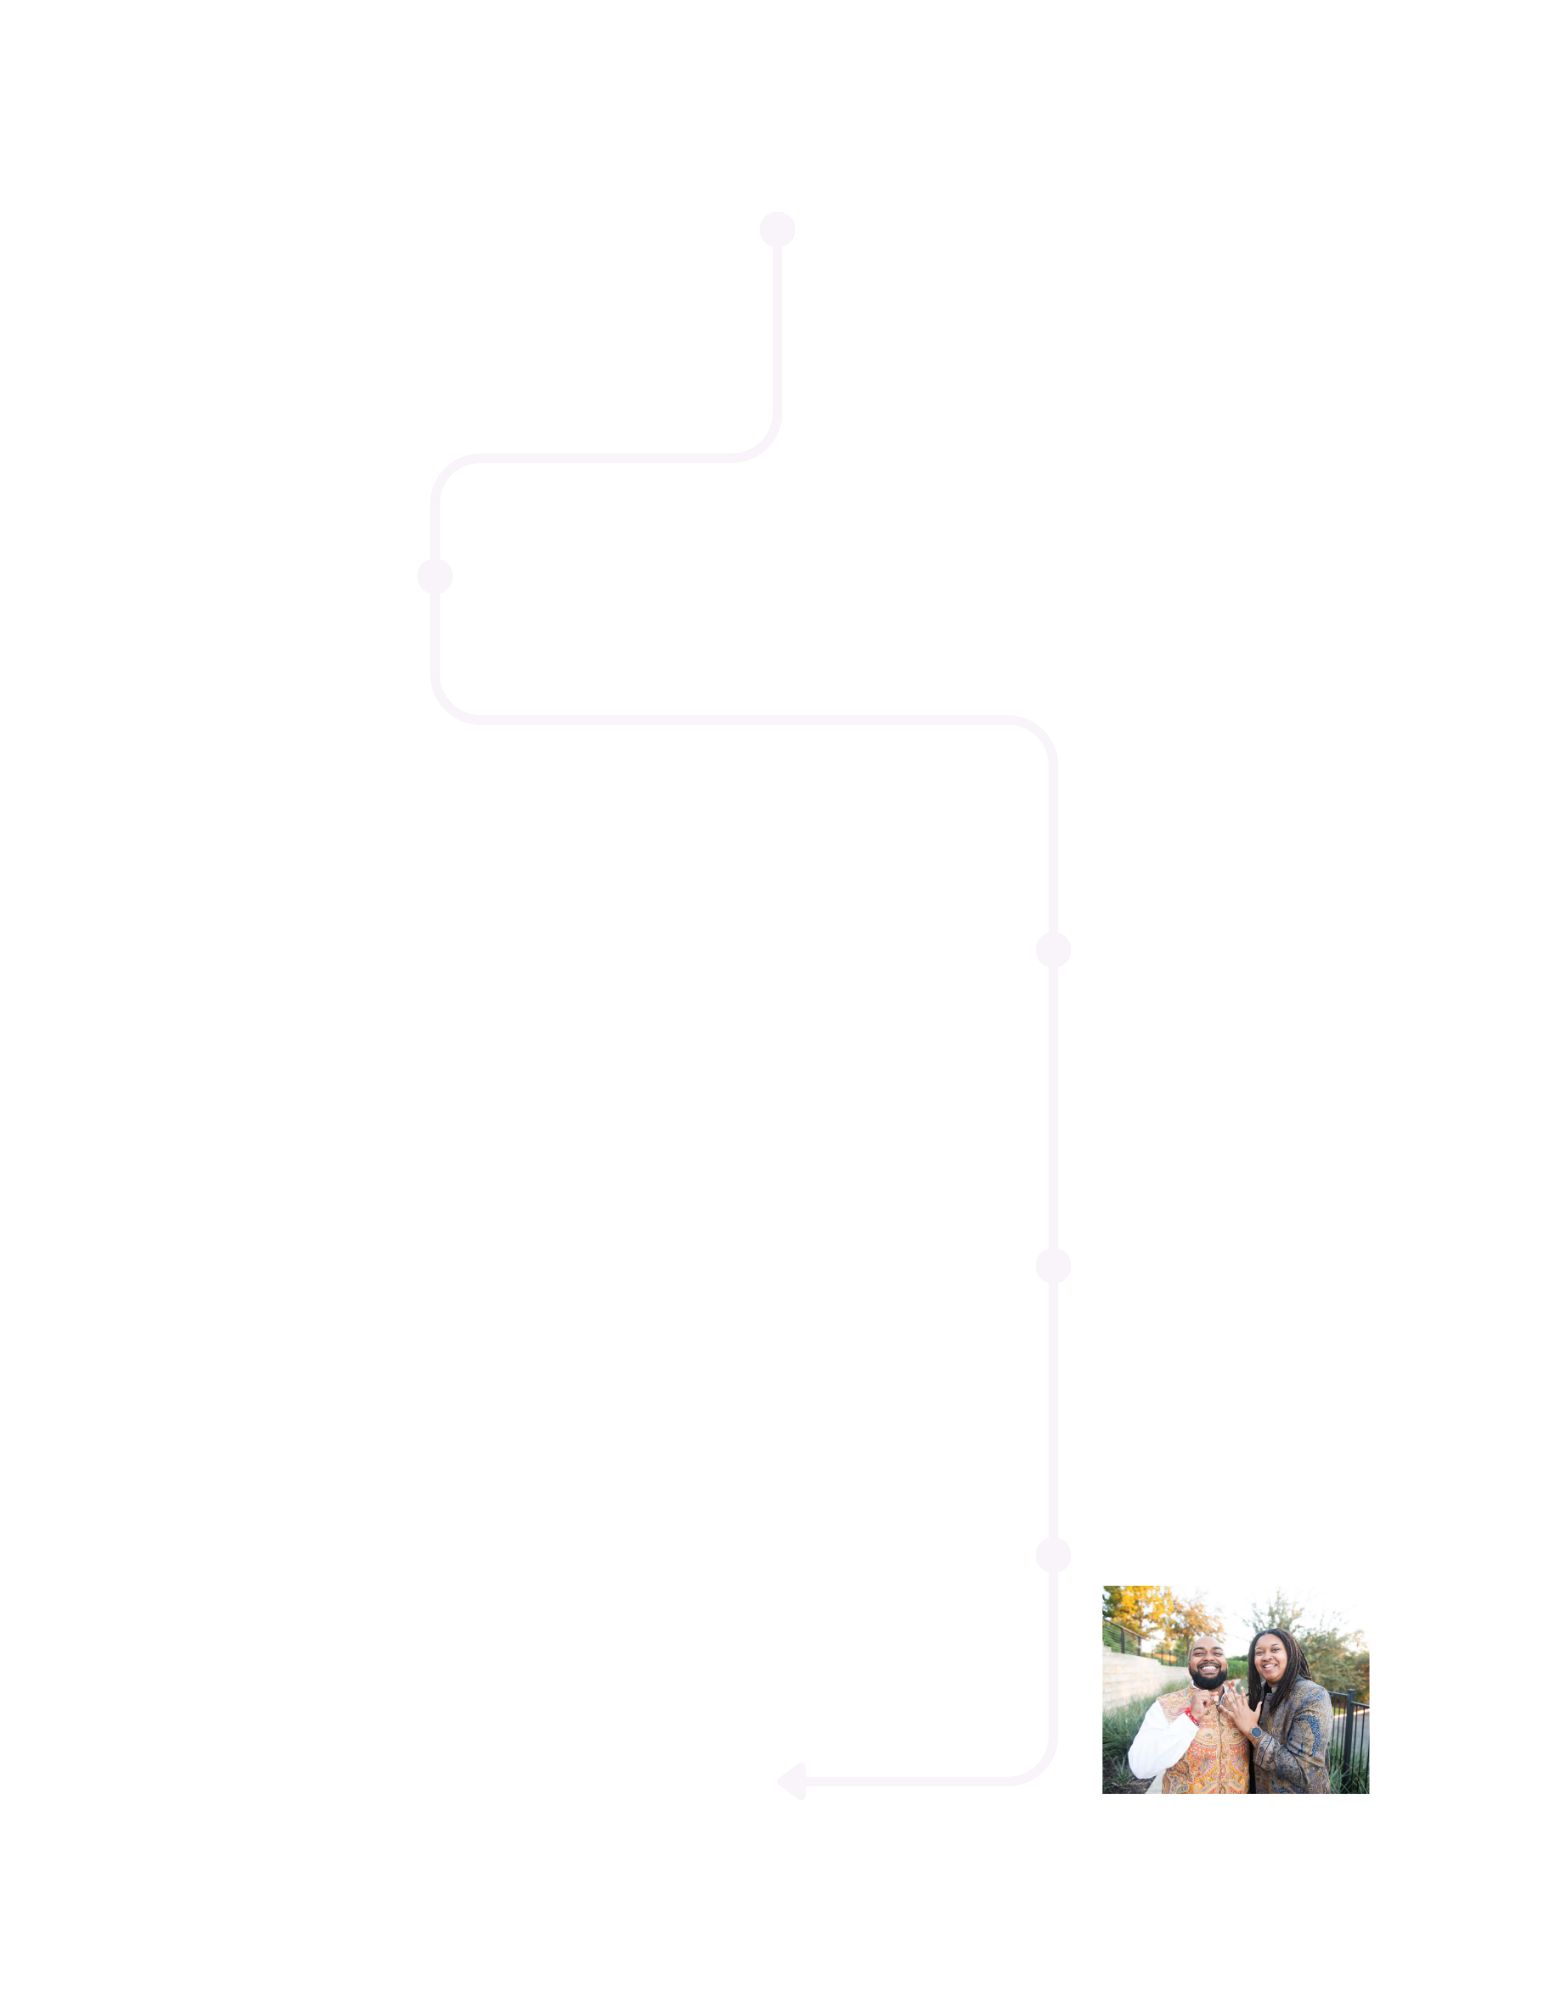
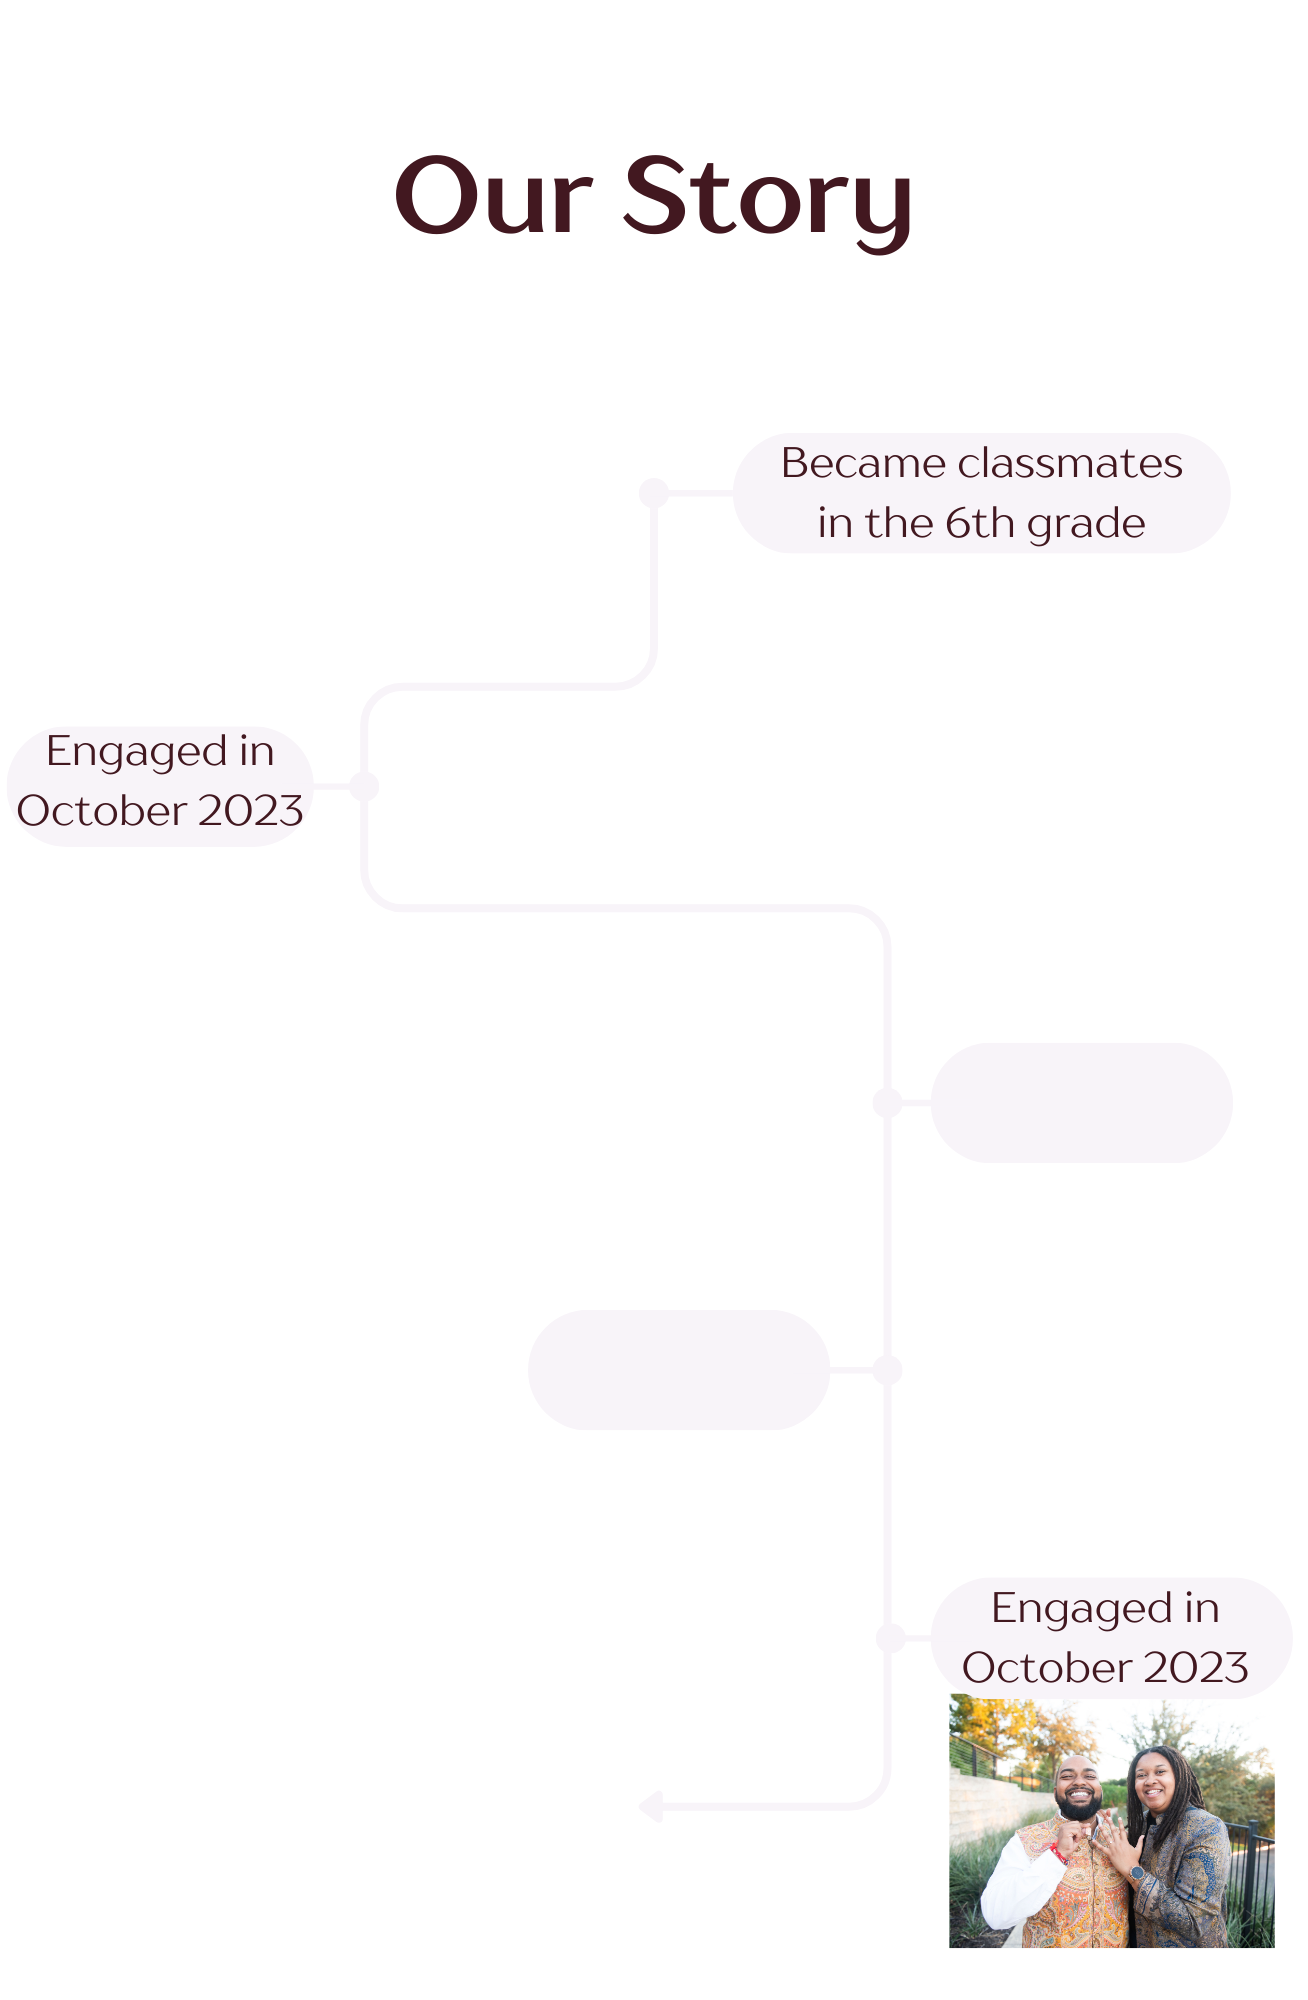
Added Photo Gallery
Updated the timeline image to increase the size of the text. Updated the home page image to adjust the location of the text. Added the photo gallery using https://www.w3schools.com/howto/howto_css_image_grid_responsive.asp

diff --git a/styles.css b/styles.css
@@ -303,9 +303,9 @@
 /*  OUR STORY SECTION ***************************************************************************************************/
 .main {
     /* background-color: #131313; */
-    background: #333333;  
-    background: -webkit-linear-gradient(to right, #dd1818, #333333);  
-    background: linear-gradient(to right, #dd1818, #333333); 
+    background: #421820;  
+    background: -webkit-linear-gradient(to bottom, #91171F, #421820);  
+    background: linear-gradient(to bottom, #91171F, #421820); 
     padding: 10rem 0;
 }
 
@@ -330,6 +330,42 @@
     opacity: 1;
 }
 
+/* PHOTO GALLERY */
+.row {
+    display: flex;
+    flex-wrap: wrap;
+    padding: 0 4px;
+    justify-content: center;
+  }
+  
+  /* Create four equal columns that sits next to each other */
+  .column {
+    flex: 25%;
+    max-width: 25%;
+    padding: 0 4px;
+  }
+  
+  .column img {
+    margin-top: 8px;
+    vertical-align: middle;
+    width: 100%;
+  }
+  
+  /* Responsive layout - makes a two column-layout instead of four columns */
+  @media screen and (max-width: 800px) {
+    .column {
+      flex: 50%;
+      max-width: 50%;
+    }
+  }
+  
+  /* Responsive layout - makes the two columns stack on top of each other instead of next to each other */
+  @media screen and (max-width: 600px) {
+    .column {
+      flex: 100%;
+      max-width: 100%;
+    }
+  }
 
 /*  Mobile Responsiveness */
 @media screen and (max-width: 1100px) {

diff --git a/index.html b/index.html
@@ -62,6 +62,23 @@
                 <img src="images/Our Story Timeline.png" alt="Our Story Timeline">
             </div>
         </div>
+        <div class="row">
+            <div class="column">
+                <img src="images/proposal-140.jpg">
+                <img src="images/proposal-88.jpg">
+                <img src="images/proposal-127.jpg">
+            </div>
+            <div class="column">
+                <img src="images/proposal-128.jpg">
+                <img src="images/proposal-130.jpg">
+                <img src="images/proposal-102.jpg">
+            </div>
+            <div class="column">
+                <img src="images/proposal-136.jpg">
+                <img src="images/proposal-110.jpg">
+                <img src="images/proposal-120.jpg">
+            </div>
+          </div>
     </div>
 
    <!-- Itinerary Section -->
